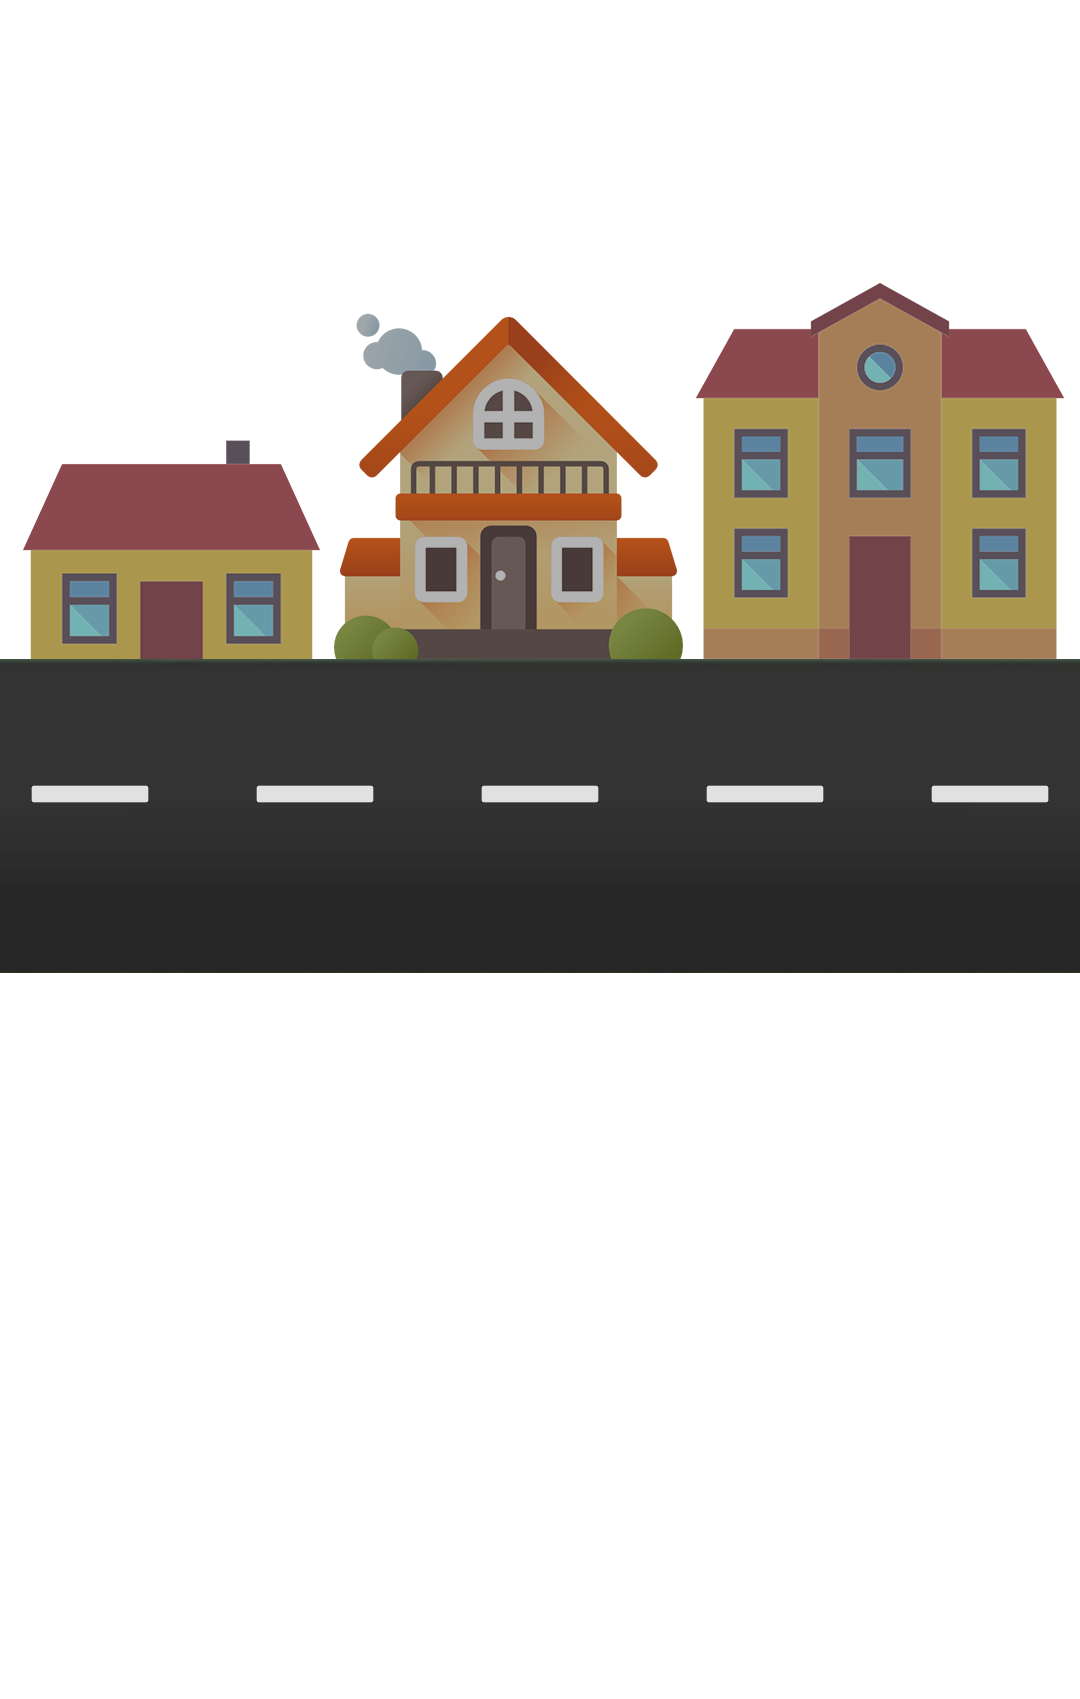
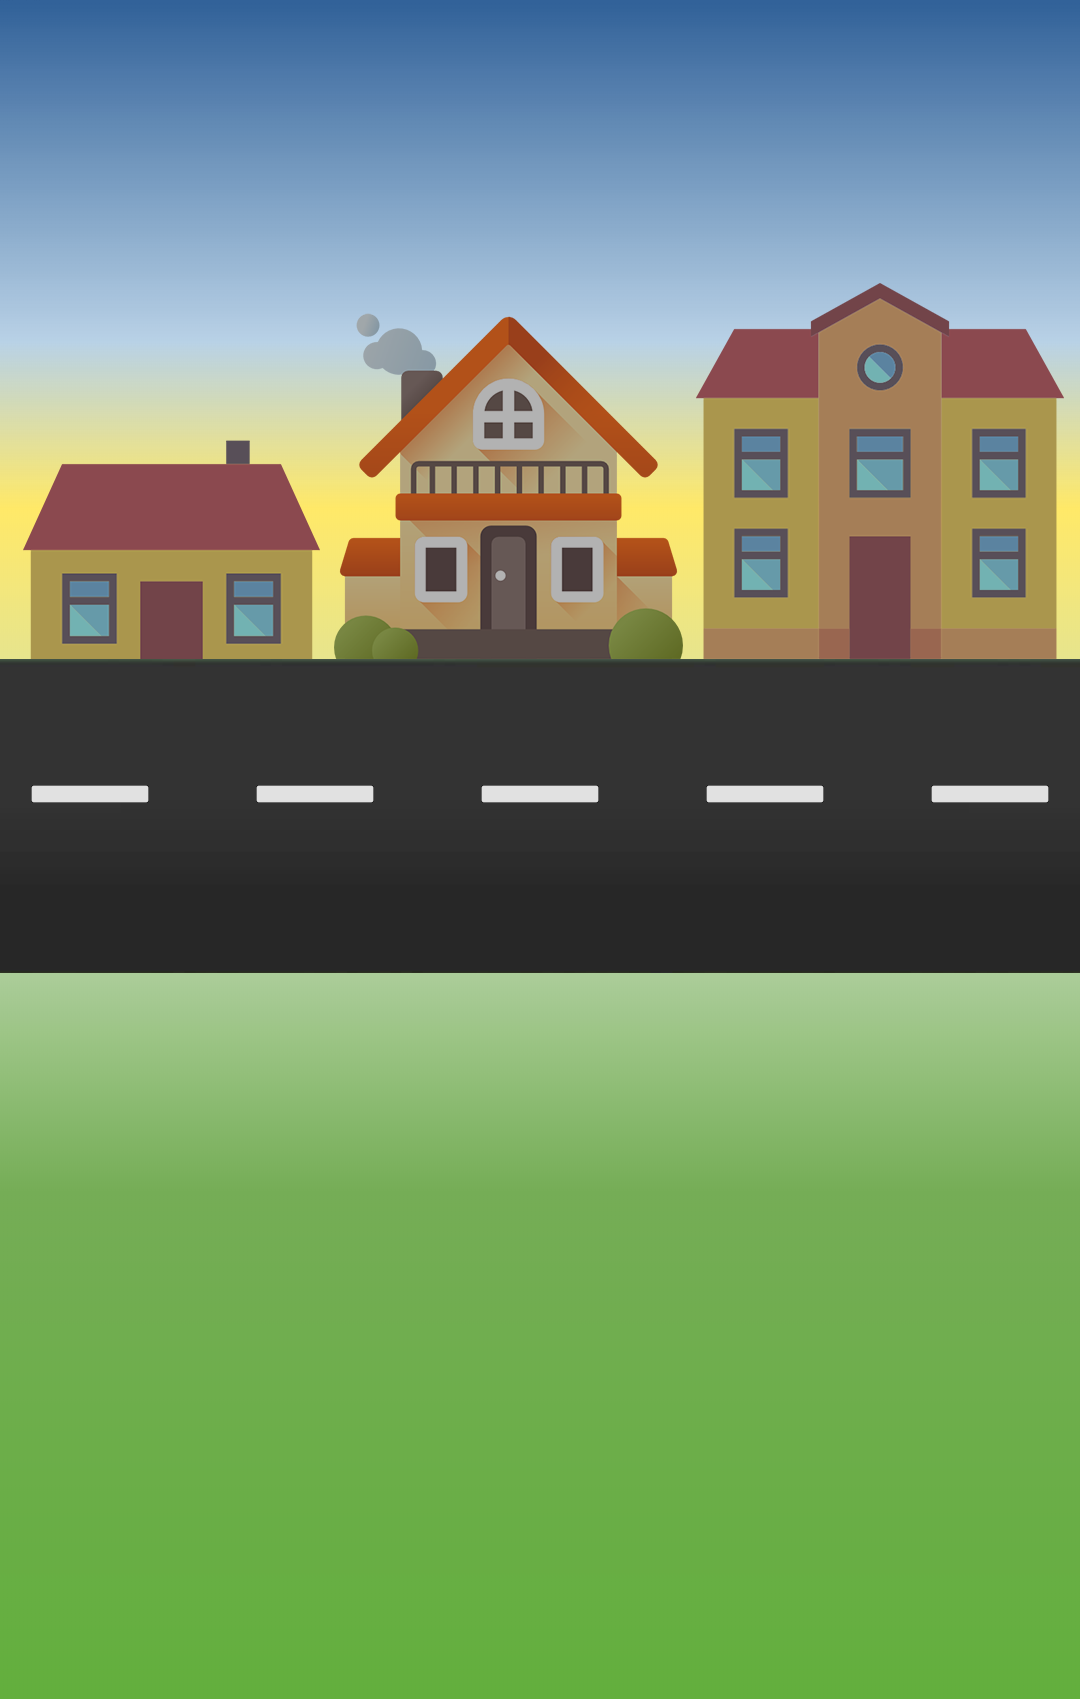
Combat page rework/restyle complete

diff --git a/src/ridder-redder/src/pages/combat/combat.scss b/src/ridder-redder/src/pages/combat/combat.scss
@@ -4,15 +4,15 @@ page-combat {
 .background {
     // background: -moz-linear-gradient(top, rgba(50,98,153,1) 0%, rgba(131,175,211,0.57) 23%, rgba(255,255,255,0.15) 45%, rgba(255,255,255,0.02) 52%, rgba(255,255,255,0) 53%, rgba(255,255,255,0.4) 59%, rgba(201,223,189,1) 68%, rgba(117,173,86,1) 82%, rgba(99,175,61,1) 100%); /* FF3.6-15 */
     // background: -webkit-linear-gradient(top, rgba(50,98,153,1) 0%,rgba(131,175,211,0.57) 23%,rgba(255,255,255,0.15) 45%,rgba(255,255,255,0.02) 52%,rgba(255,255,255,0) 53%,rgba(255,255,255,0.4) 59%,rgba(201,223,189,1) 68%,rgba(117,173,86,1) 82%,rgba(99,175,61,1) 100%); /* Chrome10-25,Safari5.1-6 */
-    // background: linear-gradient(to bottom, rgba(50,98,153,1) 0%,rgba(131,175,211,0.57) 23%,rgba(255,255,255,0.15) 45%,rgba(255,255,255,0.02) 52%,rgba(255,255,255,0) 53%,rgba(255,255,255,0.4) 59%,rgba(201,223,189,1) 68%,rgba(117,173,86,1) 82%,rgba(99,175,61,1) 100%); /* W3C, IE10+, FF16+, Chrome26+, Opera12+, Safari7+ */
+    // background: linear-gradient(to bottom, #326299 0%, rgba(131, 175, 211, 0.57) 20%, #ffe968 30%, #c9dfbd 50%, #75ad56 70%, #63af3d 100%);
    
-    background: url("assets/imgs/background_clouds.png") no-repeat center center fixed;
+    background: url("../assets/imgs/background_clouds.png") no-repeat center center fixed;
     -webkit-background-size: cover;
     -moz-background-size: cover;
     -o-background-size: cover;
     background-size: cover;
 
-    filter: progid:DXImageTransform.Microsoft.gradient( startColorstr='#326299', endColorstr='#63af3d',GradientType=0 ); /* IE6-9 */
+    // filter: progid:DXImageTransform.Microsoft.gradient( startColorstr='#326299', endColorstr='#63af3d',GradientType=0 ); /* IE6-9 */
 }
     
 
@@ -125,22 +125,27 @@ page-combat {
     
     .info-container {
         text-align: center;
-        padding: 12px;
-        padding-bottom: 18px;
-
-        position: fixed;
-        bottom: calc(18%);
-        width: calc(100% - 24px);
+        // padding: 12px;
+        // padding-bottom: 18px;
+        position: relative;
+        // position: fixed;
+        // bottom: calc(0%);
+        // width: calc(100% - 24px);
+        width: 100%;
     }
     .loot-container {
         position: fixed;
-        bottom: calc(3%);
+        bottom: calc(20%);
         width: 90%;
         text-align: center;
         border: 1px solid black;
         border-radius: 5px;
         padding: 5px;
         background: rgba(0,0,0, 0.2);
+
+        h2 {
+            font-size: 1.8rem;
+        }
 
        .loot-content {
            width: 100%;
@@ -152,6 +157,9 @@ page-combat {
                 flex-direction: column;
                 justify-content: space-around;
                 text-align: center;
+                h4 {
+                    font-size: 1.6rem;
+                }
                 img {
                     margin: auto;
                     text-align: center;
@@ -164,19 +172,20 @@ page-combat {
     .combat-style-container {
         display: flex;
         justify-content: space-between;
-        padding: 24px;
+        padding: 16px;
     }
     .combat-melee-container,
     .combat-magic-container {
         display: flex;
         justify-content: space-around;
-        padding-bottom: 24px;
+        padding-bottom: 16px;
     }
     .retry-container {
         position: fixed;
-        bottom: calc(65% - 40px);
+        bottom: calc(52% - 37px);
         left: calc(50% - 20px);
         text-align: center;
+        color: white;
     }
 }
 

diff --git a/src/ridder-redder/src/pages/combat/combat.ts b/src/ridder-redder/src/pages/combat/combat.ts
@@ -34,7 +34,6 @@ export class CombatPage {
 
     private combat: Combat;
 
-
     private infoHead: string;
     private infoParagraph: string;
 
@@ -49,7 +48,7 @@ export class CombatPage {
         private invProvider: InventoryProvider
     ) {
 
-        
+
     }
 
     ionViewDidLoad() {
@@ -133,13 +132,13 @@ export class CombatPage {
             case CombatState.CombatVictory:
                 this.infoHead = "Victory!"
                 this.infoParagraph = "";
-                this.setInfoContainerPosition(40);
+                this.setInfoContainerPosition(43);
                 // this.infoParagraph = `You have defeated the monster!\nYou have gained ${this.combat.experienceGained} experience!`;
                 break;
             case CombatState.CombatDefeat:
                 this.infoHead = "Defeat!"
                 this.infoParagraph = "";
-                this.setInfoContainerPosition(40);
+                this.setInfoContainerPosition(43);
                 // this.infoParagraph = "You have been defeated by the monster!";
                 break;
         }
@@ -147,13 +146,15 @@ export class CombatPage {
 
     private resetInfoContainerPosition() {
         let el = document.getElementById('infoContainer');
-        if(el)
-            el.style.bottom = "calc(18%)";
+        if (el)
+            el.style.bottom = '18% !important';
+        
     }
     private setInfoContainerPosition(bottom: number) {
         let el = document.getElementById('infoContainer');
-        if(el)
-            el.style.bottom = `calc(${bottom}%)`;
+        if (el) 
+            el.style.bottom = bottom + '% !important';
+        
     }
 
     damageMonster() {

diff --git a/src/ridder-redder/src/models/Combat.ts b/src/ridder-redder/src/models/Combat.ts
@@ -319,7 +319,7 @@ export class Combat {
         this.combatState = state;
 
         if (this.combatState == CombatState.CombatDefeat || this.combatState == CombatState.CombatVictory) {
-            this.loading = true;
+            // this.loading = true;
             this.playerProvider.UpdatePlayer(this.player).subscribe(data => {
                 let p: Player = {
                     PlayerName: data.PlayerName,
@@ -328,7 +328,7 @@ export class Combat {
                 }
                 this.player = p;
 
-                this.loading = false;
+                // this.loading = false;
             }, error => {
                 console.log(error);
             });
